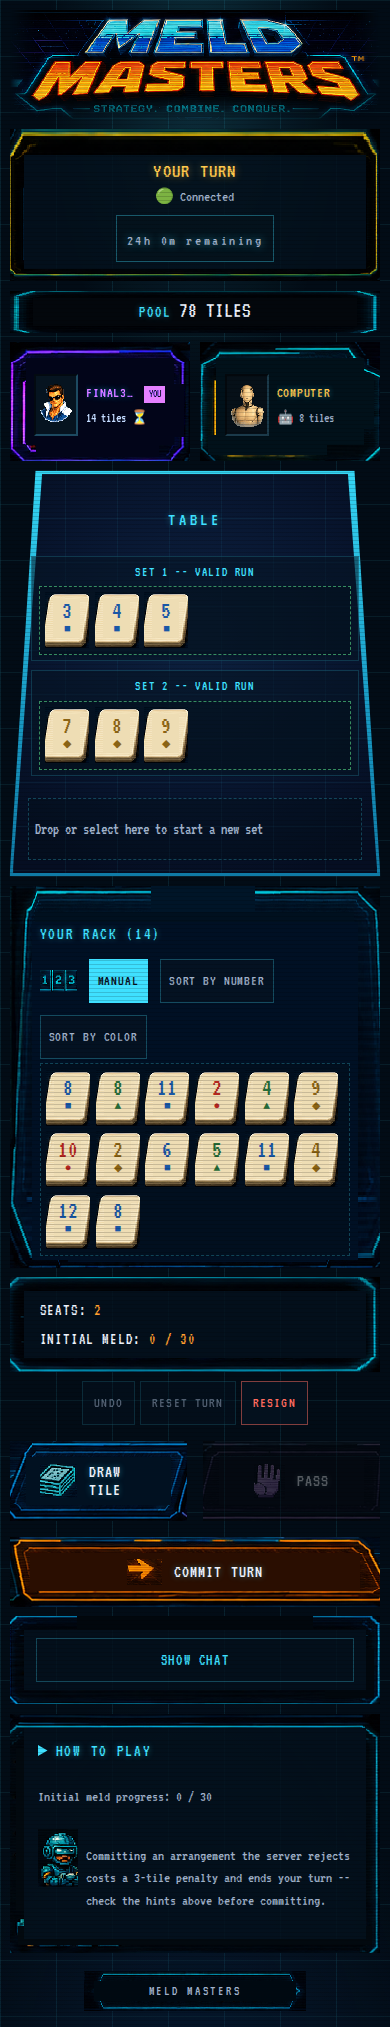
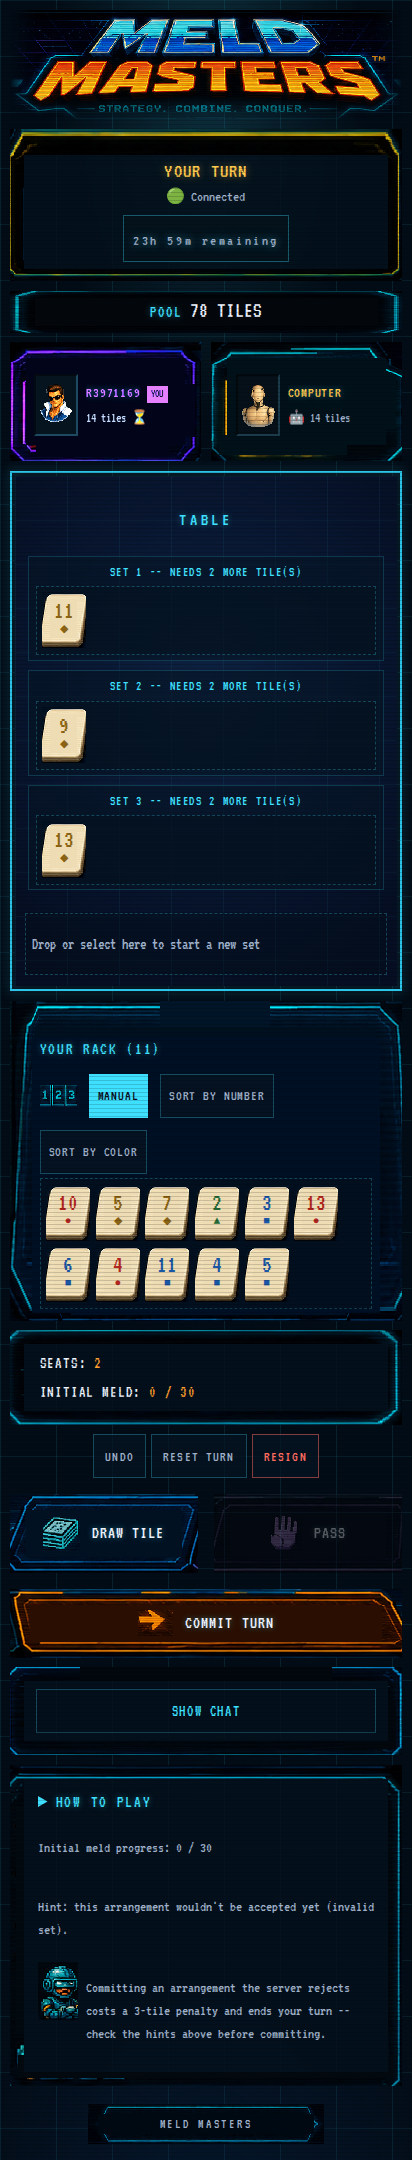
fix(mobile): complete plate corners and straight-sided board window
Phone polish per review screenshots (mainscreen.jpg, gameplay.jpg):

- Home plates smeared their corner braces at full phone width because
  the 16px border-image slice was far smaller than the concept art's
  ~64x30px corner geometry. On phone the plates (and signed-in badge)
  now slice the full braces and render them at half scale -- crisp,
  complete corners and uniform box heights.
- The board window loses its perspective taper on phone: a tall
  scrolling board reads wrong as a trapezoid, so the neon frame becomes
  straight-sided there (desktop keeps the concept's taper).

Phone-media-scoped only; desktop home/tabletop verified unchanged.
469 unit tests, region contracts 3/3, tabletopMobile + mobileOverflow +
accessibility 15/15.

Claude-Session: https://claude.ai/code/session_01NbHLChvSTxS9hqHN73jMbx

Changed region(s): [[0.0, 0.0, 0.9846, 0.9946]]

diff --git a/apps/web/src/styles/arcade-kit.css b/apps/web/src/styles/arcade-kit.css
@@ -2101,3 +2101,42 @@ button.danger:disabled {
     height: auto;
   }
 }
+
+/* --------------------------- phone polish round 3 (2026-08-02 feedback) */
+
+/* Home plates on phone: the concept plates' corner braces span ~64x30px
+   of source art -- far larger than the 16px slice used at desktop rail
+   widths -- so full-width phone plates smeared their corners into the
+   stretched edge bands. Slice the full brace geometry and render it at
+   half scale for crisp, complete corners and uniform box heights.
+   (!important: the slice/width come from frameStyle's inline style.) */
+@media (max-width: 900px) {
+  .home-menu-plate {
+    border-image-slice: 30 64 30 64 fill !important;
+    border-width: 15px 32px !important;
+    min-height: 96px;
+  }
+
+  .home-signed-in {
+    border-image-slice: 26 48 26 48 fill !important;
+    border-width: 13px 24px !important;
+  }
+
+  /* Board window: straight-sided on phone -- the perspective taper reads
+     wrong on a tall scrolling board (user feedback, gameplay.jpg). */
+  .tabletop-board {
+    padding: 2.2rem 4% 1rem;
+  }
+
+  .tabletop-board::before {
+    clip-path: none;
+    background: none;
+    border: 2px solid #2cc4e8;
+    filter: drop-shadow(0 0 6px rgba(63, 224, 255, 0.5));
+  }
+
+  .tabletop-board::after {
+    clip-path: none;
+    inset: 5px;
+  }
+}
